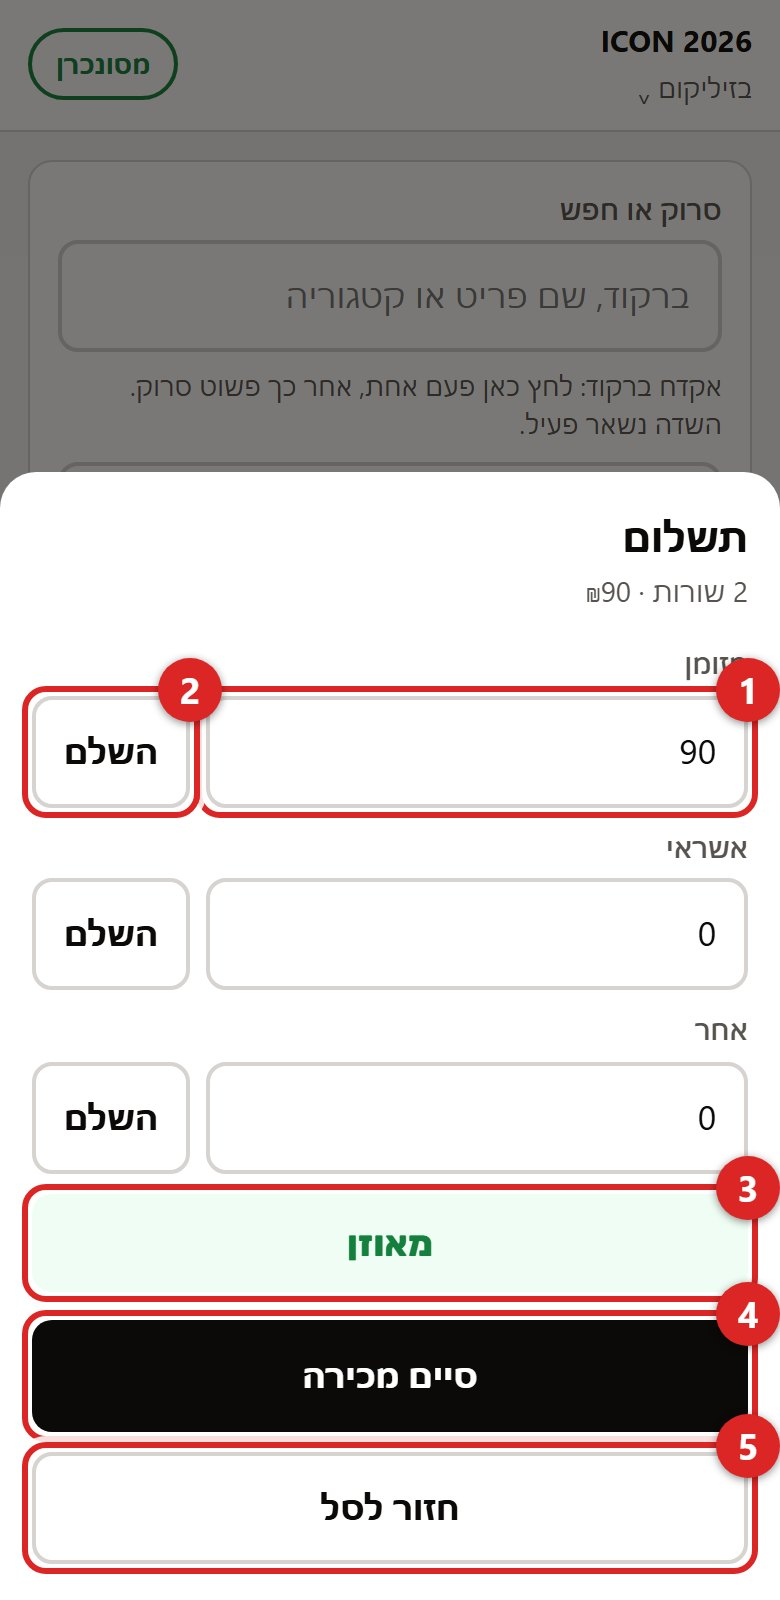
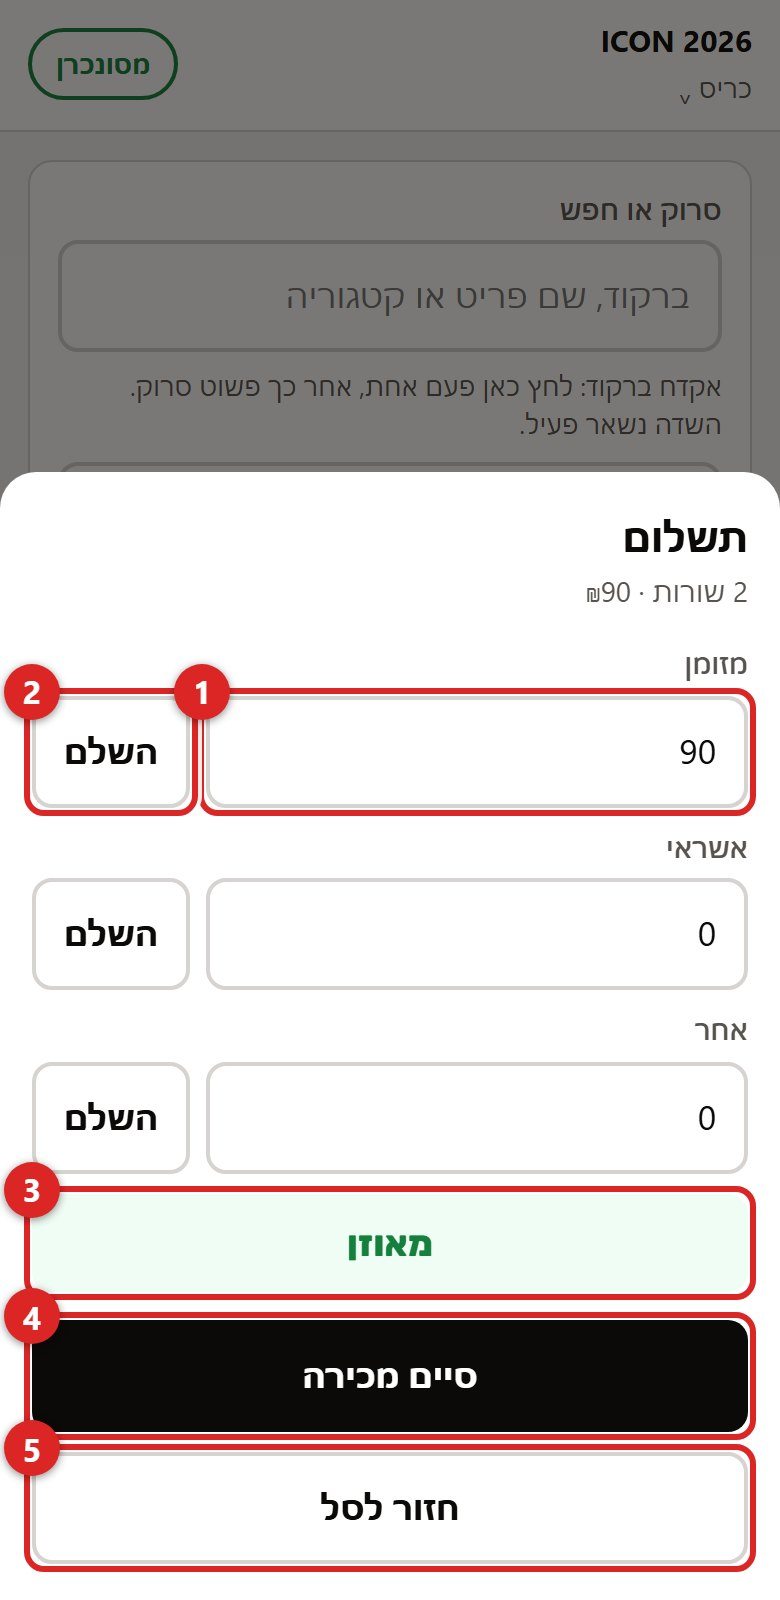
v8: quick-start page and a quality pass on the guide pictures
- quickstart.html: one-page version (7 steps, three key screens, the four sync states),
  linked from the start screen and from the full guide
- guide pictures regenerated: Chris as the staff name, a real barcode in the camera
  picture (fake camera fed an EAN-13 video, two lenses in the picker), markers moved to
  the empty top-left corner and clamped inside the frame, tighter crops, no stray
  overlays; report pictures kept at phone size on wide screens
- report.html: overflow-x hidden on body only (on html+body the body became its own
  scroller and window scrolling broke)
- sw.js cache v8 with quickstart.html in the shell

Changed region(s): [[0.0, 0.7188, 1.0, 1.0], [0.0, 0.4062, 1.0, 0.5312], [0.8615, 0.0312, 0.9231, 0.0625]]

diff --git a/quickstart.html b/quickstart.html
@@ -1,0 +1,96 @@
+<!DOCTYPE html>
+<html lang="he" dir="rtl">
+<head>
+<meta charset="utf-8">
+<meta name="viewport" content="width=device-width, initial-scale=1, viewport-fit=cover">
+<meta name="theme-color" content="#0c0a09">
+<title>FREAK POS — התחלה מהירה</title>
+<link rel="icon" href="./icon-192.png">
+
+<!-- The one-page version of guide.html: what a new person needs before the first
+     sale. Prints on a single A4 for the stall table. Pictures are the same real
+     screenshots as the full guide (guide/). -->
+
+<style>
+  :root { --ink: #0c0a09; --muted: #57534e; --line: #d6d3d1; --bg: #f5f5f4; --surface: #ffffff;
+          --ok: #15803d; --queued: #b45309; --danger: #b91c1c; --mark: #dc2626; }
+  * { box-sizing: border-box; }
+  html, body { margin: 0; background: var(--bg); color: var(--ink);
+    font-family: system-ui, -apple-system, "Segoe UI", Rubik, Arial, sans-serif; font-size: 17px; line-height: 1.45; }
+  #app { max-width: 720px; margin: 0 auto; }
+  header { position: sticky; top: 0; z-index: 20; background: var(--surface); border-bottom: 1px solid var(--line);
+    padding: 10px 14px; display: flex; align-items: center; gap: 12px; }
+  header h1 { font-size: 18px; margin: 0; flex: 1; }
+  header a { color: var(--muted); font-size: 14px; white-space: nowrap; }
+  main { padding: 14px; }
+  .card { background: var(--surface); border: 1px solid var(--line); border-radius: 12px; padding: 14px 16px; margin-bottom: 12px; }
+  ol.steps { padding-inline-start: 0; margin: 0; list-style: none; counter-reset: s; }
+  ol.steps li { position: relative; padding-inline-start: 44px; margin: 10px 0; min-height: 32px; }
+  ol.steps li::before { counter-increment: s; content: counter(s); position: absolute; inset-inline-start: 0; top: 0;
+    width: 32px; height: 32px; border-radius: 50%; background: var(--ink); color: #fff; font-weight: 700; font-size: 17px;
+    display: flex; align-items: center; justify-content: center; }
+  ol.steps li > b:first-child { display: block; }
+  kbd { background: var(--bg); border: 1px solid var(--line); border-radius: 6px; padding: 1px 6px; font-family: inherit; font-size: 15px; }
+  .pics { display: grid; grid-template-columns: repeat(3, 1fr); gap: 10px; margin: 6px 0 2px; }
+  .pics figure { margin: 0; }
+  .pics img { width: 100%; border: 1px solid var(--line); border-radius: 10px; display: block; }
+  .pics figcaption { font-size: 12px; color: var(--muted); text-align: center; margin-top: 4px; }
+  .pills { display: grid; grid-template-columns: 1fr 1fr; gap: 8px 14px; align-items: center; margin-top: 6px; }
+  .pills img { width: 100%; border: 1px solid var(--line); border-radius: 8px; display: block; }
+  .pills p { margin: 0; font-size: 14px; }
+  @media (max-width: 480px) { .pills { grid-template-columns: 1fr; } }
+  b.ok { color: var(--ok); } b.queued { color: var(--queued); } b.bad { color: var(--danger); }
+  .foot { color: var(--muted); font-size: 14px; text-align: center; margin: 8px 0 0; }
+  .foot a { color: var(--ink); }
+  @media print {
+    header { display: none; } body { background: #fff; font-size: 13px; }
+    .card { border: none; padding: 6px 0; margin: 0; break-inside: avoid; }
+    .pics img { max-height: 170px; object-fit: cover; object-position: top; }
+    ol.steps li { margin: 5px 0; }
+  }
+</style>
+</head>
+
+<body>
+<div id="app">
+  <header>
+    <h1>דוכן FREAK · התחלה מהירה</h1>
+    <a href="./guide.html">המדריך המלא</a>
+    <a href="./index.html">לקופה</a>
+  </header>
+
+  <main>
+    <div class="card">
+      <div class="pics">
+        <figure><img src="./guide/01-gate.jpg" alt="מסך הפתיחה"><figcaption>1 · שם ואירוע</figcaption></figure>
+        <figure><img src="./guide/04-item.jpg" alt="חלון הפריט"><figcaption>3 · כמות ומחיר</figcaption></figure>
+        <figure><img src="./guide/07-pay.jpg" alt="תשלום"><figcaption>5 · תשלום</figcaption></figure>
+      </div>
+    </div>
+
+    <div class="card">
+      <ol class="steps">
+        <li><b>מתחילים.</b> בוחרים את השם שלכם ואת האירוע → <kbd>התחל מכירה</kbd>. אין אתכם ברשימה? למנהל.</li>
+        <li><b>סורקים.</b> אקדח: לוחצים פעם אחת בשדה החיפוש, ומאז רק סורקים. מצלמה: <kbd>הפעל מצלמה</kbd>, הברקוד לרוחב בתוך המסגרת. מטושטש? <kbd>החלף מצלמה</kbd>. קטן? להתרחק ל-20 ס״מ ולזום. אפשר גם להקליד שם.</li>
+        <li><b>פריט.</b> כמות, מחיר אם צריך לשנות → <kbd>הוסף לסל</kbd>. "פריט לא מזוהה": חפשו לפי שם; אם אין, הקלידו את המחיר מהמדבקה ותוסיפו.</li>
+        <li><b>סל.</b> <b>×</b> מוחק שורה. <kbd>לתשלום</kbd> כשסיימתם.</li>
+        <li><b>תשלום.</b> <kbd>השלם</kbd> ליד מזומן או אשראי ממלא את היתרה. חייב להיות <b class="ok">מאוזן</b> → <kbd>סיים מכירה</kbd>. "אחר" (ביט, החלפה) מחייב פירוט. האשראי נסלק במסופון כרגיל.</li>
+        <li><b>הכפתור למעלה.</b> ראו למטה. כשיש עליו מספר: לא מוחקים את האפליקציה ולא מנקים את הדפדפן.</li>
+        <li><b>מחליפים משמרת?</b> לוחצים על שם האירוע למעלה ובוחרים שם מחדש.</li>
+      </ol>
+    </div>
+
+    <div class="card">
+      <div class="pills">
+        <img src="./guide/08-pill-synced.jpg" alt="מסונכרן"><p><b class="ok">מסונכרן</b> — הכל נשלח.</p>
+        <img src="./guide/08-pill-queued.jpg" alt="ממתין"><p><b class="queued">ממתין</b> — נשלח לבד תוך שניות. אפשר ללחוץ.</p>
+        <img src="./guide/08-pill-offline.jpg" alt="לא מקוון"><p><b class="queued">לא מקוון</b> — אין קליטה. ממשיכים למכור; יישלח כשתחזור.</p>
+        <img src="./guide/08-pill-stuck.jpg" alt="תקוע"><p><b class="bad">תקוע</b> — לחצו <kbd>מכירות תקועות</kbd> מתחת לסל, <kbd>⧉</kbd> להעתיק, ושלחו למנהל. לא למחוק.</p>
+      </div>
+    </div>
+
+    <p class="foot">כל השאר, כולל תקלות ופתרונות: <a href="./guide.html">המדריך המלא</a></p>
+  </main>
+</div>
+</body>
+</html>

diff --git a/guide.html b/guide.html
@@ -24,7 +24,7 @@
   header { position: sticky; top: 0; z-index: 20; background: var(--surface); border-bottom: 1px solid var(--line);
     padding: 10px 14px; display: flex; align-items: center; gap: 12px; }
   header h1 { font-size: 18px; margin: 0; flex: 1; }
-  header a { color: var(--muted); font-size: 14px; }
+  header a { color: var(--muted); font-size: 14px; white-space: nowrap; }
   main { padding: 14px; }
 
   nav.toc { background: var(--surface); border: 1px solid var(--line); border-radius: 12px; padding: 12px 16px; margin-bottom: 16px; }
@@ -40,7 +40,7 @@
   .lead { color: var(--muted); margin: 0 0 12px; }
   figure { margin: 0 0 14px; }
   figure img { display: block; width: 100%; max-width: 360px; border: 1px solid var(--line); border-radius: 14px; margin: 0 auto; }
-  figure.wide img { max-width: 100%; }
+  figure.wide img { max-width: 360px; }
   figcaption { font-size: 13px; color: var(--muted); text-align: center; margin-top: 6px; }
   ol.steps { padding-inline-start: 0; margin: 0; list-style: none; counter-reset: s; }
   ol.steps li { position: relative; padding-inline-start: 40px; margin: 8px 0; }
@@ -67,6 +67,7 @@
 <div id="app">
   <header>
     <h1>מדריך לצוות · דוכן FREAK</h1>
+    <a href="./quickstart.html">התחלה מהירה</a>
     <a href="./index.html">לקופה</a>
   </header>
 
@@ -91,7 +92,7 @@
 
     <section id="s1">
       <h2><span class="n">1</span>התקנה על הטלפון</h2>
-      <p class="lead">האפליקציה היא דף אינטרנט שמתקינים כאייקון. פעם אחת לכל טלפון.</p>
+      <p class="lead">האפליקציה היא דף אינטרנט שמתקינים כאייקון. פעם אחת לכל טלפון. ממהרים? יש גם <a href="./quickstart.html">התחלה מהירה</a> בעמוד אחד.</p>
       <ol class="steps">
         <li>פתחו בדפדפן את הכתובת: <b>epic-pita.github.io/freak-pos</b></li>
         <li><b>אנדרואיד (כרום):</b> תפריט ⋮ (למעלה מימין) → <kbd>הוסף למסך הבית</kbd> → <kbd>התקן</kbd>.</li>
@@ -108,7 +109,7 @@
         <li>בחרו את השם שלכם ברשימה.</li>
         <li>בחרו את האירוע. הרשימה מציגה את האירועים של הימים האלה.</li>
         <li>לחצו <kbd>התחל מכירה</kbd>.</li>
-        <li>הקישור למטה פותח את דוח האירוע (למנהלים, סעיף 11).</li>
+        <li>הקישורים למטה: התחלה מהירה, המדריך הזה, ודוח האירוע (למנהלים, סעיף 11).</li>
       </ol>
       <p class="tip">אם השם שלכם או האירוע לא ברשימה: תגידו למנהל. הוא מוסיף אותם בגיליון, ובפתיחה הבאה הם יופיעו.</p>
     </section>
@@ -131,9 +132,9 @@
 
     <section id="s4">
       <h2><span class="n">4</span>המצלמה</h2>
-      <figure><img src="./guide/10-camera.jpg" alt="חלון המצלמה עם החלפת מצלמה, זום ופנס"><figcaption>חלון המצלמה</figcaption></figure>
+      <figure><img src="./guide/10-camera.jpg" alt="חלון המצלמה עם החלפת מצלמה, זום ופנס"><figcaption>חלון המצלמה, בטלפון עם שתי עדשות אחוריות</figcaption></figure>
       <ol class="steps">
-        <li><kbd>הפעל מצלמה</kbd> פותח את חלון הסריקה. הברקוד צריך להיות בתוך המסגרת, לרוחב.</li>
+        <li><kbd>הפעל מצלמה</kbd> פותח את חלון הסריקה (כשהמצלמה פועלת הכפתור הופך ל<kbd>כבה מצלמה</kbd>). הברקוד צריך להיות בתוך המסגרת, לרוחב.</li>
         <li><b>תמונה מטושטשת?</b> לחצו <kbd>החלף מצלמה</kbd>. לרוב לטלפון יש כמה עדשות אחוריות ורק אחת מהן מצליחה למקד מקרוב. הבחירה נשמרת.</li>
         <li>אפשר גם לבחור עדשה מהרשימה.</li>
         <li><b>ברקוד קטן?</b> אל תתקרבו. הישארו כ-20 ס״מ והגבירו זום. מתחת ל-10 ס״מ העדשה לא מסוגלת למקד.</li>

diff --git a/index.html b/index.html
@@ -185,7 +185,7 @@
         <button class="btn" id="g-go">התחל מכירה</button>
       </div>
       <p class="empty" id="g-status">טוען קטלוג…</p>
-      <p class="empty" style="padding-top:0"><a class="quiet" href="./guide.html">מדריך לצוות</a> &nbsp;·&nbsp; <a class="quiet" href="./report.html">סיכום אירוע ותיקוני כספיט</a></p>
+      <p class="empty" style="padding-top:0"><a class="quiet" href="./quickstart.html">התחלה מהירה</a> &nbsp;·&nbsp; <a class="quiet" href="./guide.html">מדריך מלא</a> &nbsp;·&nbsp; <a class="quiet" href="./report.html">סיכום אירוע</a></p>
     </main>
   </div>
 
@@ -519,7 +519,7 @@ function toast(msg, ms) {
 /* ==================================================================
    Boot
    ================================================================== */
-const BUILD = 'v7';
+const BUILD = 'v8';
 
 window.addEventListener('load', async () => {
   if ('serviceWorker' in navigator) {

diff --git a/report.html b/report.html
@@ -41,7 +41,7 @@
   a.quiet { color: var(--muted); font-size: 14px; }
 
   .card { background: var(--surface); border: 1px solid var(--line); border-radius: 12px; padding: 14px; margin-bottom: 12px; overflow-x: auto; }
-  html, body { overflow-x: hidden; }
+  body { overflow-x: hidden; }   /* body only: on both html and body, body becomes its own scroller and window scrolling breaks */
   .card h2 { margin: 0 0 10px; font-size: 17px; }
   .sub { color: var(--muted); font-size: 14px; margin: 0 0 10px; }
   .row { display: flex; gap: 10px; align-items: center; flex-wrap: wrap; }

diff --git a/sw.js b/sw.js
@@ -23,13 +23,14 @@
  *
  * Bump CACHE on every release. The name is the invalidation.
  */
-const CACHE = 'freak-pos-v7';
+const CACHE = 'freak-pos-v8';
 
 const SHELL = [
   './',
   './index.html',
   './report.html',
   './guide.html',
+  './quickstart.html',
   './html5-qrcode.min.js',
   './manifest.webmanifest',
   './icon-192.png',

diff --git a/README.md b/README.md
@@ -6,6 +6,7 @@ The till the shop takes to conventions. Three parts, one workbook.
 |---|---|---|
 | Till (PWA) | `index.html`, `sw.js`, `manifest.webmanifest` → GitHub Pages https://epic-pita.github.io/freak-pos/ | Built from `main` of `Epic-pita/freak-pos`. **A push to `main` is a release to the team's phones.** Bump `BUILD` in index.html and `CACHE` in sw.js together. |
 | Event report + Caspit-fix checklist | `report.html` (same site) | Linked from the till's start screen. Prints the checklist only. |
+| Staff guide | `guide.html` (full, 12 sections) + `quickstart.html` (one page) + `guide/*.jpg` | Both linked from the start screen. The images are real screenshots with numbered markers — regenerate with `tools/test/make_guide_shots.py` after any screen change (staff name in the pictures: `STAFF` at the top of that script). |
 | Stock count page | `count.html` | Separate backend ("FREAK Count API" script); untouched by this project. |
 | Backend | `Code.gs` → Apps Script project "FREAK Event POS", bound to the workbook | `clasp push` updates HEAD only. The live address is a **versioned deployment**; after a push run `clasp redeploy <deploymentId> -d "..."` (or Deploy → Manage deployments → New version). `index.html` and `report.html` must point at that deployment's `/exec` URL. |
 | Data | Google Sheet `FREAK_Event_POS` (the address is in `Code.gs` and `tools/pos-sync.ts`, which stay out of this public repo) | Owner: the shop Gmail account. |
@@ -48,3 +49,5 @@ The token in `Code.gs`, `index.html` and `report.html` must match. It filters cr
 - 2026-09-06: catalog tab re-pasted with `שם` and `ברקוד` swapped → the till showed codes instead of names until v5.
 - 2026-09-27 v5: catalog columns by header name; daily catalog from the ERP; staff and event pickers; search by item code; `report.html` (event summary per day/hour, top items, categories, staff) with the Caspit-fix checklist; report fills unreadable sold names from today's catalog.
 - 2026-09-28 v6 (camera): one-tap `החלף מצלמה` with friendly names (back cameras first), list rebuilt after permission so the picker shows on the first open, remembered lens with a safe fallback when it vanished, continuous autofocus, the phone's built-in barcode detector where it exists, restart after the phone was locked, clear Hebrew messages for blocked/busy/missing camera, scan flash + vibration, and a `פרטי מצלמה` support line with copy. Tests: `tools/test/scan_test.py` (fake camera showing an EAN-13 → item sheet) and `tools/test/switch_test.py` (two cameras, denied permission), run with the caspit-scraper venv's Python.
+- 2026-09-28 v7: built-in staff guide (`guide.html`, 12 sections, annotated screenshots generated from the app); report tables scroll inside their cards on phones.
+- 2026-09-28 v8: quick-start page; guide pictures redone (Chris as the staff name, real barcode in the camera picture, markers on the empty top-left corner and clamped to the frame, tighter crops).
